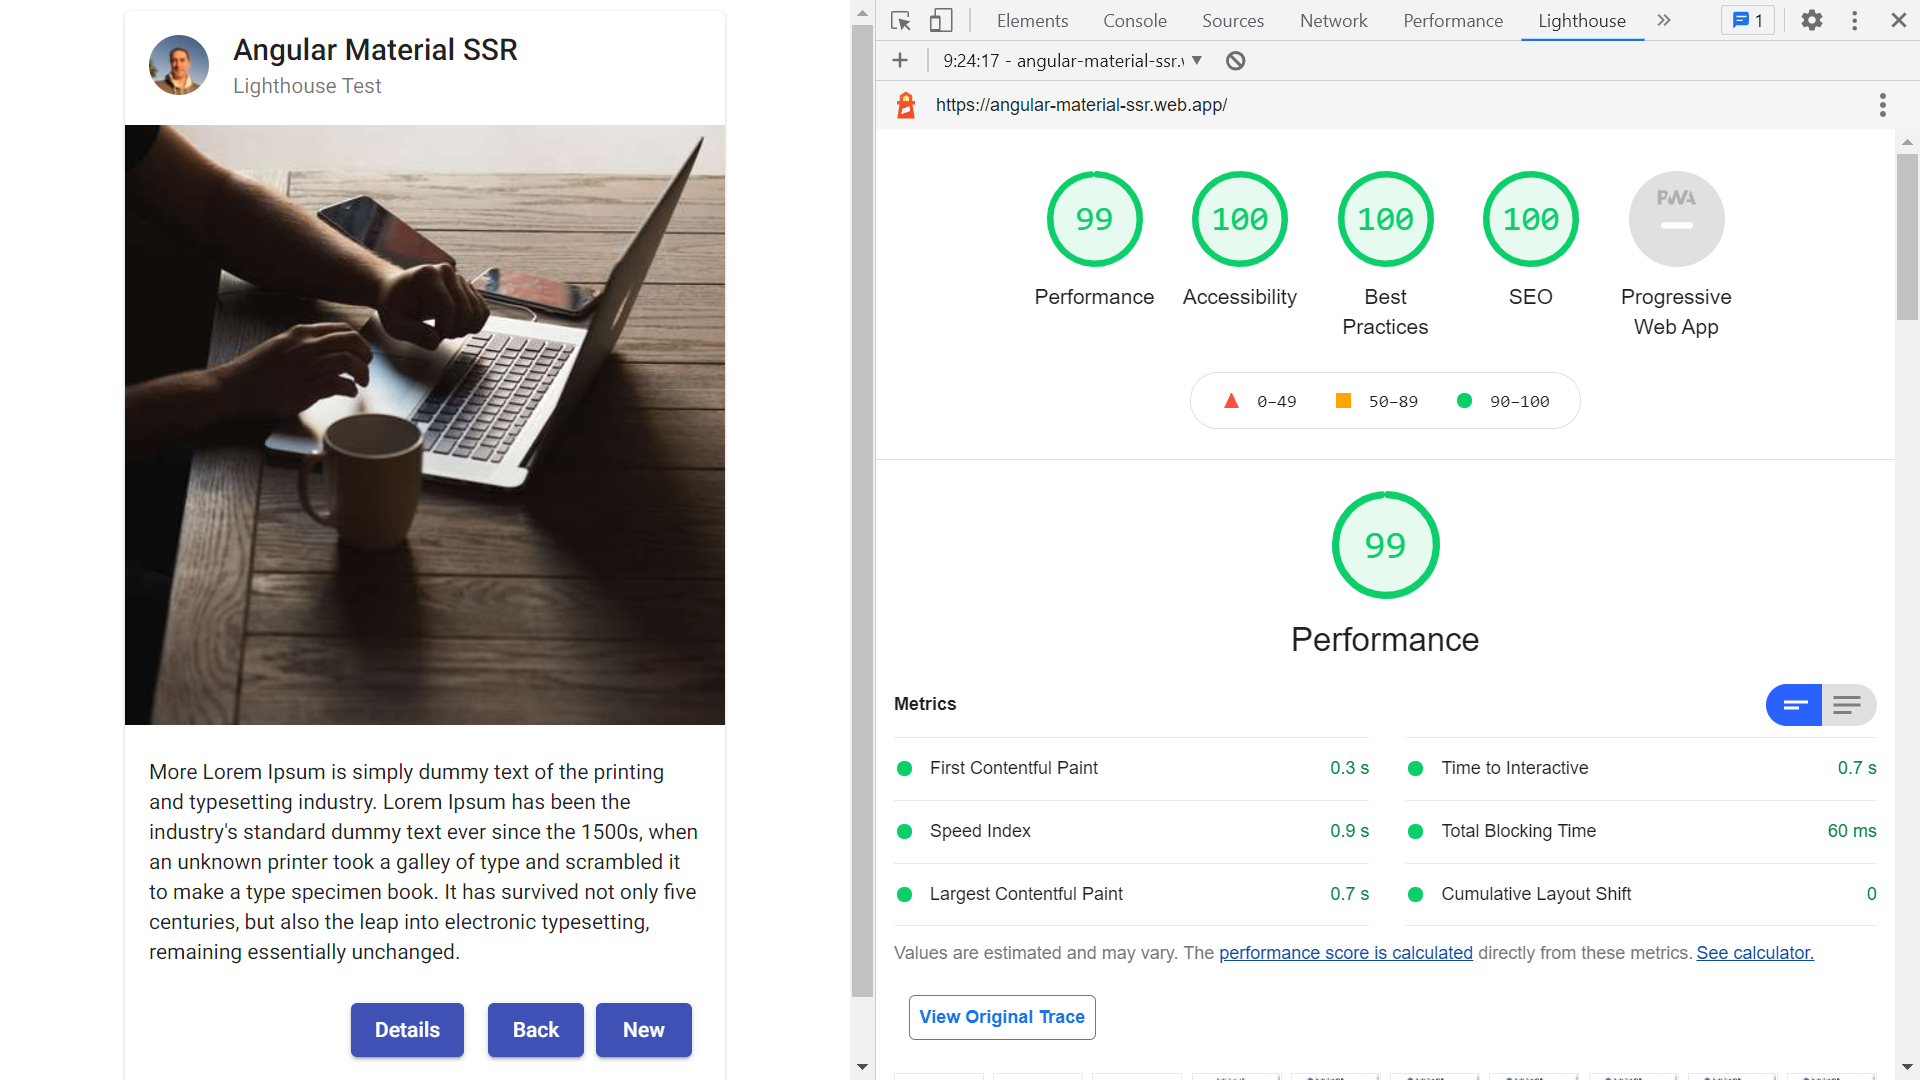
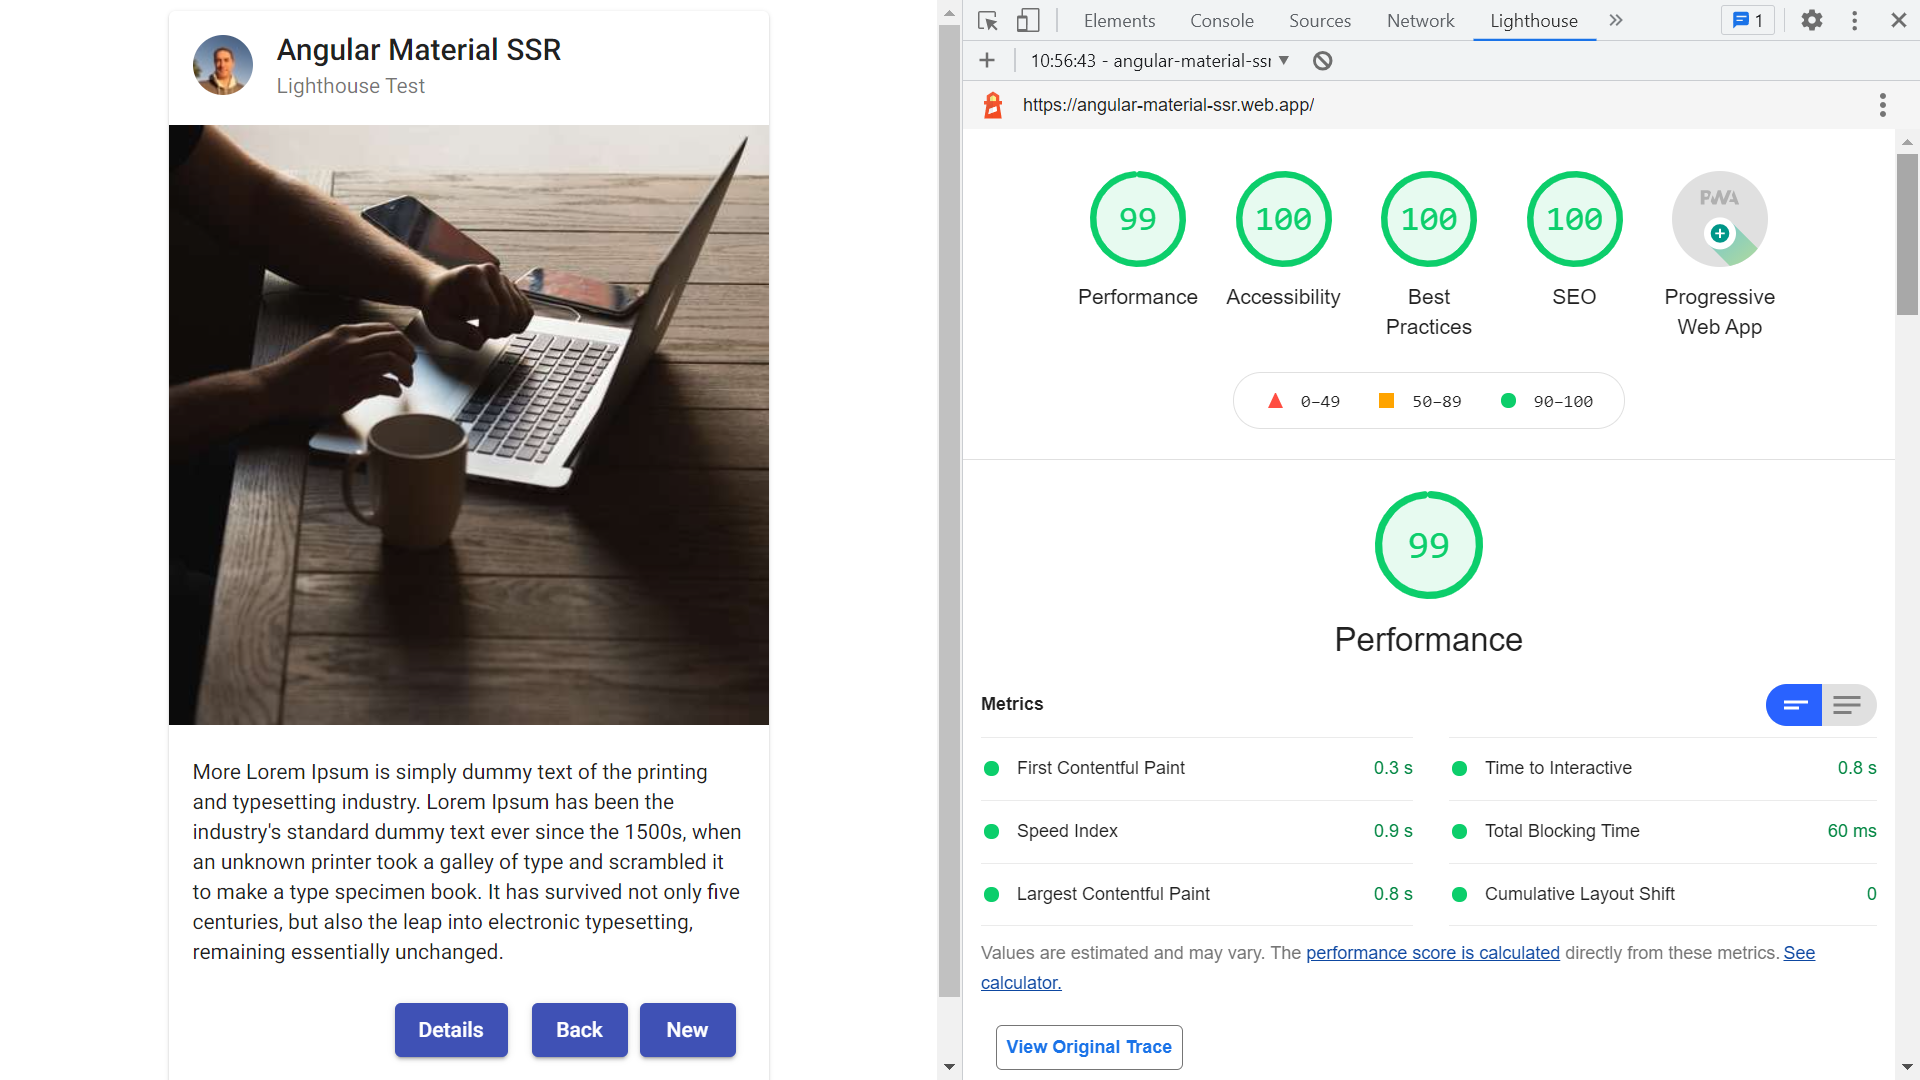
docs: user info. added

diff --git a/README.md b/README.md
@@ -1,6 +1,8 @@
 # Angular Material SSR
 
-* Angular app to deploy to Firebase functions with Server Side Rendering
+* Angular app deployed to Firebase functions with Server Side Rendering.
+* Progressive Web App
+* Optimised for an excellent Lighthouse score
 * **Note:** to open web links in a new window use: _ctrl+click on link_
 
 ![GitHub repo size](https://img.shields.io/github/repo-size/AndrewJBateman/angular-material-ssr?style=plastic)
@@ -29,6 +31,7 @@
 * Dist folder contains functions folder with browser and server SSR code.
 * Functions folder contains a copy of dependencies from the src package.json file
 * App contains Angular Material card to see effect on rendering speed.
+* [Roboto font style: Regular 400](https://fonts.google.com/specimen/Roboto) used
 
 ## :camera: Screenshots
 
@@ -41,11 +44,12 @@
 * [Angular Material v12](https://material.angular.io/) Material Design components
 * [Firebase Functions](https://firebase.google.com/docs/functions) serverless framework to automatically run SSR node.js server app
 * [Firebase Emulator](https://firebase.google.com/docs/emulator-suite) tools to test Cloud Functions
-* [RxJS v6](http://reactivex.io/)
+* [RxJS v6](http://reactivex.io/) - not used as yet
 * [Express v4](https://www.npmjs.com/package/express) Node.js framework
 
 ## :floppy_disk: Setup
 
+* Create project in Firebase console then add functions. Thsi can all be done from firebase init in VS COde
 * `npm i` to install dependencies
 * `npm prune` to remove unused npm modules
 * `ng serve` for a dev server. Navigate to `http://localhost:4200/`. The app will automatically reload if you change any of the source files.
@@ -54,8 +58,7 @@
 * Run `npm run dev:ssr` to see SSR app on a dev server
 * Run `npm run build:ssr` to build SSR project. The browser & server build folders will be stored in the `dist/functions` directory.
 * `cd dist/functions` then run `firebase emulators:start` for Firebase emulator
-* Add `defer` to `dist/functions/browser/index.html` to make loading of styles asynchronous, e.g. `<link rel="stylesheet" href="styles.d6d9df648b6debafe22a.css" defer>`
-* From command prompt cd `/dist/functions' then run `npm run deploy` to deploy app to firebase functions & hosting
+* From `/dist/functions' run `npm run deploy` to deploy app to firebase functions & hosting
 
 ## :computer: Code Examples
 
@@ -108,16 +111,18 @@ export function app(): express.Express {
 
 ## :clipboard: Status & To-Do List
 
-* Status: Working. Excellent Lighthouse score. Deployed to Firebase Functions
-* To-Do: Add PWA. Use to create an actual app with content. Update sitemap & robots.txt
+* Status: Working SSR & PWA. Excellent Lighthouse score. Deployed to Firebase Functions
+* To-Do: Use to create an actual app with content. Update sitemap & robots.txt
 
 ## :clap: Inspiration
 
 * [Codeible: Server Side Rendering with Angular, Angular Universal, & Firebase 2021](https://www.youtube.com/watch?v=k7pLxaKkHYs)
+* [Dev.to: Loading Google Fonts and any other web fonts as fast as possible in early 2021](https://dev.to/masakudamatsu/loading-google-fonts-and-any-other-web-fonts-as-fast-as-possible-in-early-2021-4f5o)
+* [MDN: Link types: preload](https://developer.mozilla.org/en-US/docs/Web/HTML/Link_types/preload#Cross-origin_fetches)
 
 ## :file_folder: License
 
-* N/A
+* This project is licensed under the terms of the MIT license.
 
 ## :envelope: Contact
 
